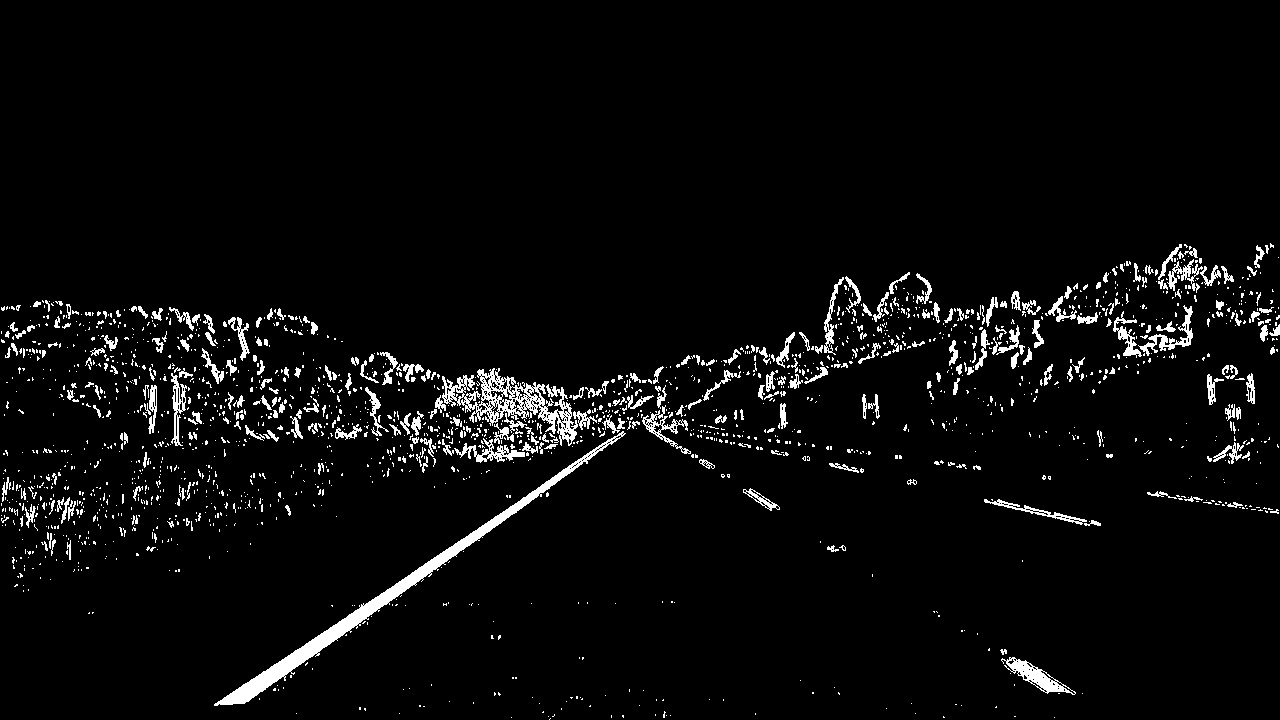
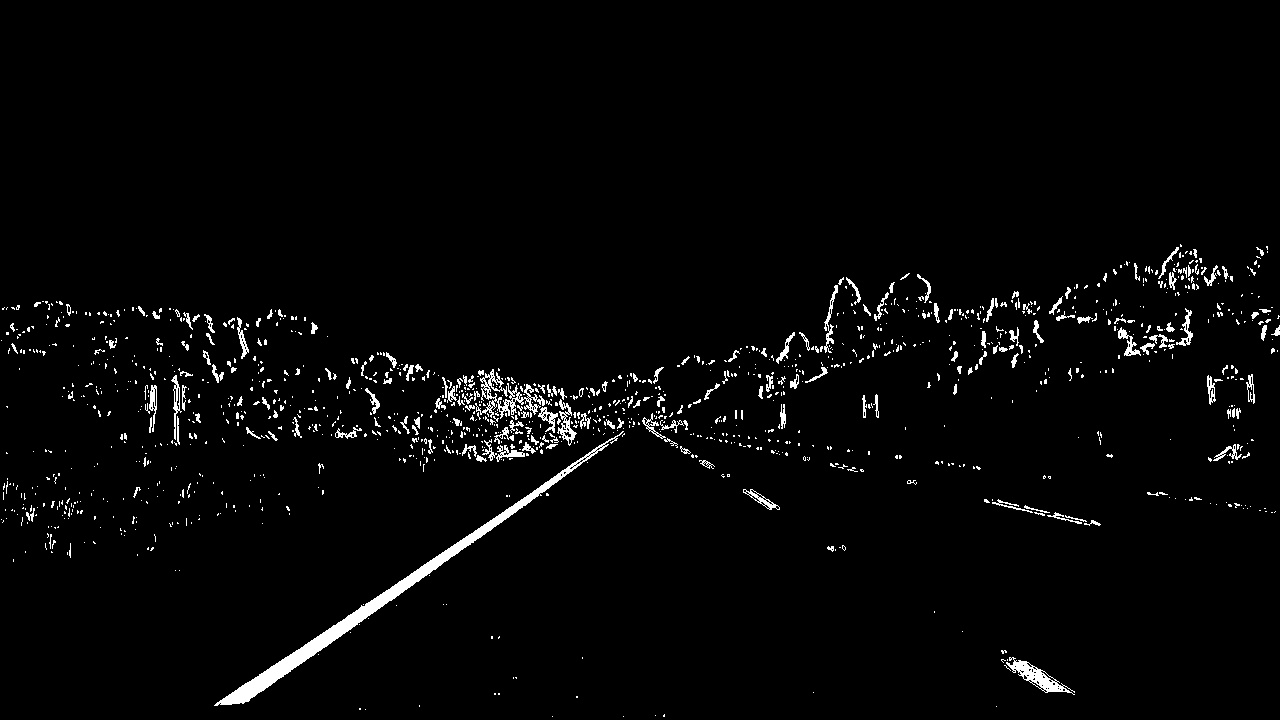
added perspective transform

diff --git a/src/main.py b/src/main.py
@@ -42,7 +42,7 @@ def undistort(mtx, dist, frame_path):
     return undist
 
 
-def threshold(img, s_thresh=(180, 255), sx_thresh=(50, 100)):
+def threshold(img, s_thresh=(180, 255), sx_thresh=(30, 100)):
     img = np.copy(img)
     # Convert to HLS color space and separate the V channel
     hls = cv2.cvtColor(img, cv2.COLOR_RGB2HLS)
@@ -66,20 +66,75 @@ def threshold(img, s_thresh=(180, 255), sx_thresh=(50, 100)):
     # color_binary = np.dstack((np.zeros_like(sxbinary), sxbinary, s_binary)) * 255
     return combined_binary
 
+
+def warp(bin_img):
+    # src coordinates for perspective transform
+    x1 = 190
+    y1 = bin_img.shape[0]
+    x2 = 590
+    y2 = 450
+    x3 = 690
+    y3 = 450
+    x4 = 1120
+    y4 = bin_img.shape[0]
+    src = np.float32(
+        [[x1, y1],
+         [x2, y2],
+         [x3, y3],
+         [x4, y4]])
+
+    # dst coords
+    x1_dst = 350
+    y1_dst = bin_img.shape[0]
+    x2_dst = 350
+    y2_dst = 0
+    x3_dst = 950
+    y3_dst = 0
+    x4_dst = 950
+    y4_dst = bin_img.shape[0]
+    dst = np.float32(
+        [[x1_dst, y1_dst],
+         [x2_dst, y2_dst],
+         [x3_dst, y3_dst],
+         [x4_dst, y4_dst]])
+
+    img_size = (bin_img.shape[1], bin_img.shape[0])
+
+    src_draw = np.array(
+        [[x1, y1],
+         [x2, y2],
+         [x3, y3],
+         [x4, y4]])
+    dst_draw = np.array(
+        [[x1_dst, y1_dst],
+         [x2_dst, y2_dst],
+         [x3_dst, y3_dst],
+         [x4_dst, y4_dst]])
+
+    M = cv2.getPerspectiveTransform(src, dst)
+    warped = cv2.warpPerspective(bin_img, M, img_size, flags=cv2.INTER_LINEAR)
+    # check if the coordinates are correct
+    # color_img = np.dstack((bin_img, np.zeros_like(bin_img), np.zeros_like(bin_img))) * 255
+    # color_img = cv2.polylines(color_img, [src_draw], True, (0, 255, 0))
+    # cv2.imshow('src', color_img)
+    # cv2.waitKey()
+    return warped
+
+
 # test the pipeline here
 images = '../data/camera_cal/calibration*.jpg'
-test_img = '../data/test_images/straight_lines1.jpg'
-undistorted_img = '../data/output_images/undostorted.jpg'
+test_img_name = '../data/test_images/straight_lines1.jpg'
+undistorted_img_name = '../data/output_images/undostorted.jpg'
 bin_img_name = '../data/output_images/thresholded.jpg'
+warped_img_name = '../data/output_images/warped.jpg'
 
 mtx, dist = calibrate_camera(images)
-undist_img = undistort(mtx, dist, test_img)
-bin_img = threshold(undist_img)
+undist_img = undistort(mtx, dist, test_img_name)
+binary_img = threshold(undist_img)
+warped = warp(binary_img)
 # plt.imshow(undist_img)
 # plt.show()
 # undist_img = cv2.cvtColor(undist_img, cv2.COLOR_RGB2BGR)
 # cv2.imwrite(undistorted_img, undist_img)
-# cv2.imwrite(bin_img_name, bin_img * 255)
-bin_half = bin_img[bin_img.shape[0] // 2:, :]
-plt.imshow(bin_half)
-plt.show()
+# cv2.imwrite(bin_img_name, binary_img * 255)
+# cv2.imwrite(warped_img_name, warped * 255)
